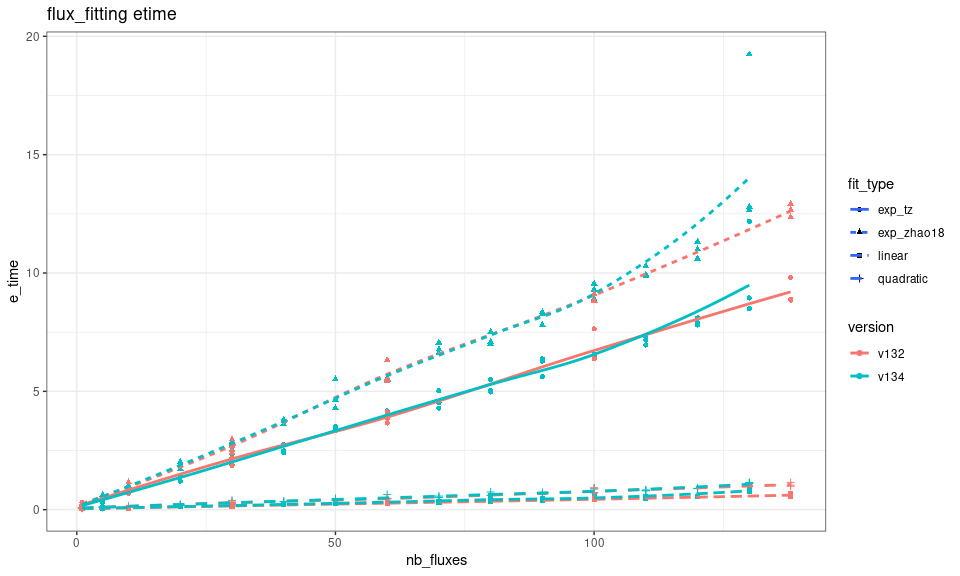
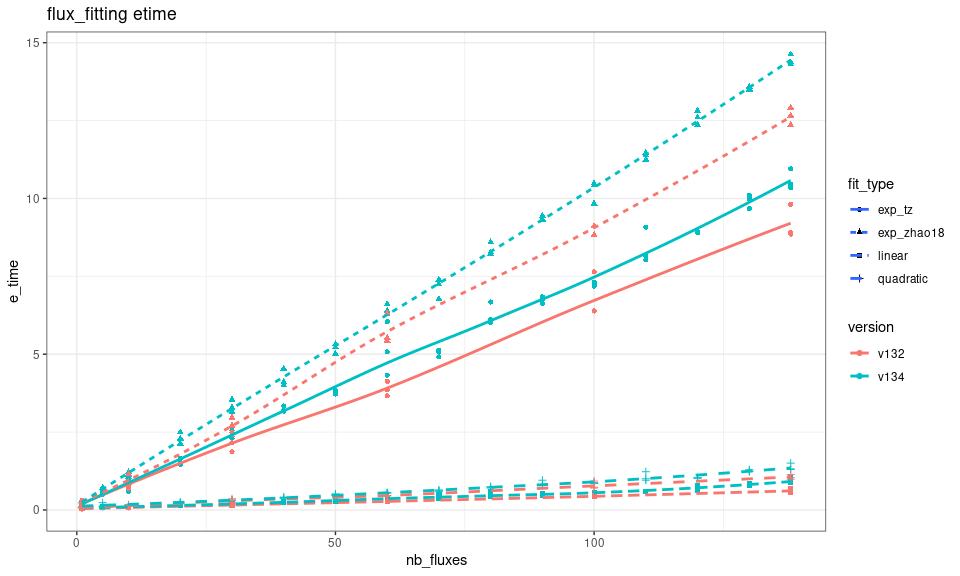
rerun perf report for v134

diff --git a/perf_report.md b/perf_report.md
@@ -1,13 +1,13 @@
 # fluxible performance report
 Joseph Gaudard
-2025-10-14
+2025-10-15
 
 Current `fluxible` package version: 1.3.4
 
 # `flux_plot`
 
 ``` r
-plotting_etime <- function(version, nb_fluxes = c(1, 5, 10, 20, 30, 40, 50, 60, 70, 80, 90, 100, 110, 120, 130),
+plotting_etime <- function(version, nb_fluxes = c(1, 5, 10, 20, 30, 40, 50, 60, 70, 80, 90, 100, 110, 120, 130, 138),
  replicates = 3, output = c("pdfpages", "longpdf")) {
 
 result <- replicate(n = replicates, expr = {
@@ -60,7 +60,7 @@ Figure 1: Performance of flux_plot per version and output.
 # `flux_fitting`
 
 ``` r
-fitting_etime <- function(version, nb_fluxes = c(1, 5, 10, 20, 30, 40, 50, 60, 70, 80, 90, 100, 110, 120, 130),
+fitting_etime <- function(version, nb_fluxes = c(1, 5, 10, 20, 30, 40, 50, 60, 70, 80, 90, 100, 110, 120, 130, 138),
  replicates = 3, fit_type = c("exp_zhao18", "linear", "quadratic", "exp_tz")) {
 
 
